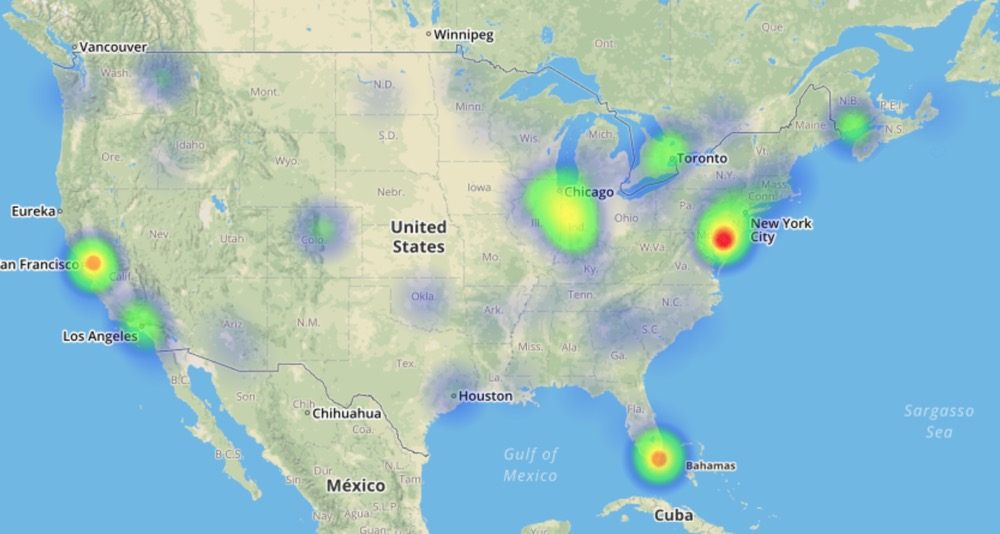
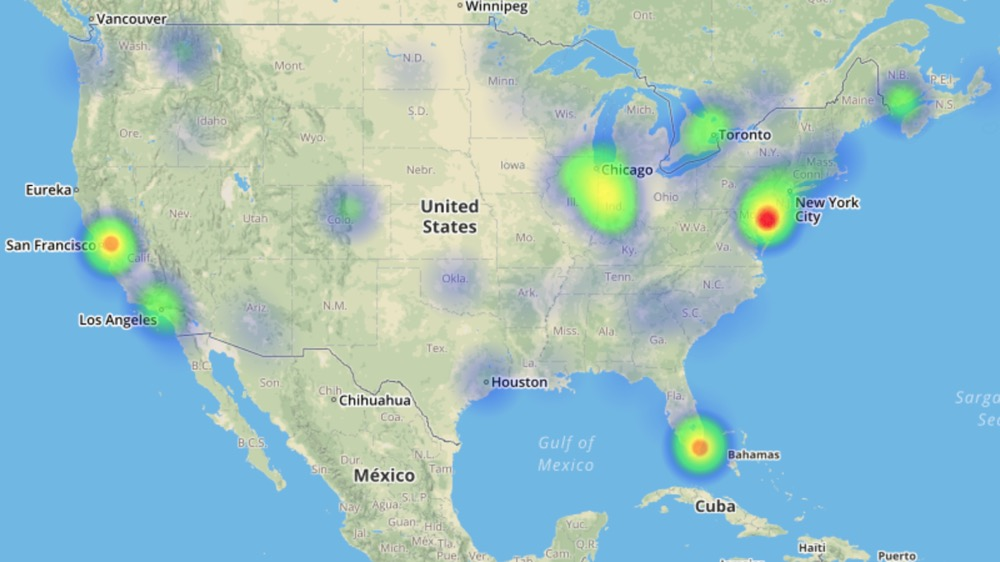
update demo image

diff --git a/demo/Timeline/testpage.html b/demo/Timeline/testpage.html
@@ -8,7 +8,7 @@
 <body>
 
 
-<div id="mapid" style="width: 1000px; height: 800px;"></div>
+<div id="mapid" style="width: 1600px; height: 800px;"></div>
 
 <!-- <div class="slidecontainer" id="timeline" style="visibility: visible	">
     <input type="range" min="0" max="4" value="0" id="myRange">

diff --git a/demo/HeatMap/readme.md b/demo/HeatMap/readme.md
@@ -145,4 +145,4 @@ heatmapLayer.addData(tmp);
 
 Then you will see this in your browser：
 
-![heat](./heat.jpg)
+![heat](./HeatmapDemo.jpg)
